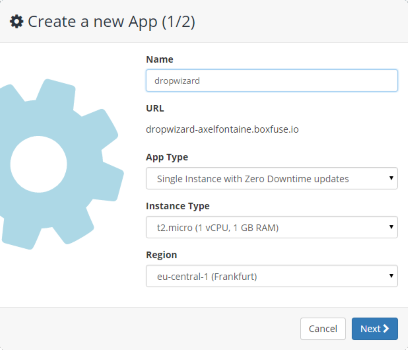
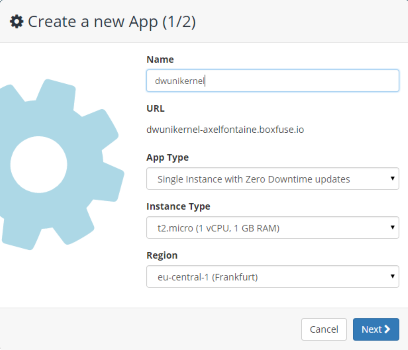
Updated blog post with more details

diff --git a/_posts/2015-04-25-dropwizard-aws.html b/_posts/2015-04-25-dropwizard-aws.html
@@ -40,26 +40,103 @@ permalink: /blog/dropwizard-aws.html
 
     <p>This tutorial works with Windows, Mac OSX and Linux and should take about 10 minutes to complete.</p>
 
+    <h2 class="blog-post-section">Step 0: Create a Dropwizard app</h2>
+
+    <p>Let's begin by creating a small Dropwizard application based on the latest Dropwizard Maven archetype:</p>
+
+    <pre class="console">&gt; mvn archetype:generate -DgroupId=dwunikernel -DartifactId=dwunikernel -Dversion=1.0 -Dname=DwUnikernel -Dpackage=dwunikernel -DarchetypeGroupId=io.dropwizard.archetypes -DarchetypeArtifactId=java-simple -DinteractiveMode=false</pre>
+
+    <p>This generated the basic skeleton for Dropwizard:</p>
+
+    <div class="blog-post-image">
+        <img src="/assets/posts/archetype.png" alt="Dropwizard Archetype Basic Skeleton">
+    </div>
+
+    <p>Now let's add a resource and a healthcheck.</p>
+
+    <p>For the resource create a class named <code>dwunikernel.resources.HelloWorldResource</code> with the following code:</p>
+
+    <pre class="prettyprint">package dwunikernel.resources;
+
+import com.google.common.base.Optional;
+import javax.ws.rs.GET;
+import javax.ws.rs.Path;
+import javax.ws.rs.Produces;
+import javax.ws.rs.QueryParam;
+import javax.ws.rs.core.MediaType;
+import java.util.HashMap;
+import java.util.Map;
+
+@Path("/")
+@Produces(MediaType.APPLICATION_JSON)
+public class HelloWorldResource {
+    private final String template;
+
+    public HelloWorldResource(String template) {
+        this.template = template;
+    }
+
+    @GET
+    public Map&lt;String, Object&gt; sayHello(@QueryParam("name") Optional&lt;String&gt; name) {
+        Map&lt;String, Object&gt; result = new HashMap&lt;&gt;();
+        result.put("hello", String.format(template, name.or("stranger")));
+        return result;
+    }
+}</pre>
+
+    <p>For the healthcheck, create a class named <code>dwunikernel.health.HealthCheck</code>:</p>
+
+    <pre class="prettyprint">package dwunikernel.health;
+
+import com.codahale.metrics.health.HealthCheck;
+
+public class TemplateHealthCheck extends HealthCheck {
+    private final String template;
+
+    public TemplateHealthCheck(String template) {
+        this.template = template;
+    }
+
+    @Override
+    protected Result check() throws Exception {
+        final String greeting = String.format(template, "TEST");
+        if (!greeting.contains("TEST")) {
+            return Result.unhealthy("template doesn't include a name");
+        }
+        return Result.healthy();
+    }
+}</pre>
+
+    <p>Finally register both the resource and the healthcheck in the <code>dwunikernel.DwUnikernelApplication.run()</code> method:</p>
+
+    <pre class="prettyprint">@Override
+public void run(final DwUnikernelConfiguration configuration, final Environment environment) {
+    String template = "Hello, %s!";
+    environment.jersey().register(new HelloWorldResource(template));
+    environment.healthChecks().register("template", new TemplateHealthCheck(template));
+}</pre>
+
+    <p>And that's it. We now have a basic Dropwizard application we can use!</p>
+
     <h2 class="blog-post-section">Step 1: Fuse the Dropwizard app into a secure unikernel image</h2>
 
-    <p>Start by creating a new application called <code>dropwizard</code> in the
-        <a href="https://console.boxfuse.com">Boxfuse Console</a>. Select <em>Single Instance with Zero Downtime updates</em> (elastic IP) in the AWS eu-central-1 region:</p>
+    <p>Log in to the <a href="https://console.boxfuse.com">Boxfuse Console</a> and create a new application called
+        <code>dwunikernel</code>. Select the defaults of <em>Single Instance with Zero Downtime updates</em> (elastic IP) and the AWS eu-central-1 region:</p>
 
     <div class="blog-post-image">
         <img src="/assets/posts/new-app.png" alt="New application">
     </div>
 
-    <p>Now <strong><a href="https://github.com/boxfuse/blog-dropwizard-aws/archive/1.0.zip">download the sample app</a></strong> and extract it in a new directory on your machine. Open a terminal
-        and build it using Maven:</p>
+    <p>Now build our Dropwizard app using Maven:</p>
 
     <pre class="console">&gt; mvn package</pre>
 
     <p>With that done you can now turn into it a secure unikernel using the Boxfuse Client:</p>
 
-    <pre class="console">&gt; boxfuse fuse target/dropwizard-1.0.jar
+    <pre class="console">&gt; boxfuse fuse target/dwunikernel-1.0.jar
 
-Fusing Image for dropwizard-1.0.jar ...
-Image fused in 00:07.073s (54017 K) -> axelfontaine/dropwizard:1.0</pre>
+Fusing Image for dwunikernel-1.0.jar ...
+Image fused in 00:07.073s (54017 K) -> axelfontaine/dwunikernel:1.0</pre>
 
     <p>In just over 7 seconds, Boxfuse <strong>analysed the application</strong>, determined it was a Dropwizard application running on the JVM
         and automatically <strong>created the smallest possible image</strong> to run it. It also automatically set
@@ -71,79 +148,110 @@ Image fused in 00:07.073s (54017 K) -> axelfontaine/dropwizard:1.0</pre>
     <pre class="console" style="font-size: 10px">&gt; boxfuse ls
 
 Images available locally:
-+-----------------------------+--------------------+-------+---------+------------+--------------------------------+---------+---------------------+
-| Image                       |      Payload       | Debug |  Java   | AppServer  |             Ports              |  Size   |    Generated at     |
-+-----------------------------+--------------------+-------+---------+------------+--------------------------------+---------+---------------------+
-| axelfontaine/dropwizard:1.0 | dropwizard-1.0.jar | false | 8.45.14 | Dropwizard | admin-http -> 8081, http -> 80 | 54017 K | 2015-04-25 23:32:54 |
-+-----------------------------+--------------------+-------+---------+------------+--------------------------------+---------+---------------------+
++------------------------------+---------------------+-------+---------+------------+--------------------------------+---------+---------------------+
+| Image                        |       Payload       | Debug |  Java   | AppServer  |             Ports              |  Size   |    Generated at     |
++------------------------------+---------------------+-------+---------+------------+--------------------------------+---------+---------------------+
+| axelfontaine/dwunikernel:1.0 | dwunikernel-1.0.jar | false | 8.45.14 | Dropwizard | admin-http -> 8081, http -> 80 | 54017 K | 2015-04-25 23:32:54 |
++------------------------------+---------------------+-------+---------+------------+--------------------------------+---------+---------------------+
 Total: 1</pre>
-    <p>Congratulations! You now a have a brand new 54 MB secure unikernel image!</p>
+    <p>Congratulations! You now a have a <strong>brand new 54 MB secure unikernel image</strong> including only our application, Java 8 and the Linux kernel!</p>
+
+    <p>For reference, if you would have create a minimal Ubuntu Server 15.04 VM with nothing, except SSH,
+        openjdk-8-jre-headless and our application, this is how large the image would have been:</p>
+
+    <div class="blog-post-image">
+        <img src="/assets/posts/ubuntu.png" alt="Ubuntu vs Boxfuse">
+    </div>
+
+    <p><strong>The Boxfuse unikernel image is just 4% of the equivalent Ubuntu one.</strong>
+        And that's just the size. When you factor
+        in creation time, security attack surface and reproducibility we are in two different leagues.</p>
 
     <h2 class="blog-post-section">Step 2: Test it locally on VirtualBox</h2>
 
     <p>Now let's launch it on VirtualBox:</p>
-    <pre class="console">&gt; boxfuse run dropwizard:1.0
 
-Launching Instance of axelfontaine/dropwizard:1.0 on VirtualBox ...
+    <pre class="console">&gt; boxfuse run dwunikernel:1.0
+
+Launching Instance of axelfontaine/dwunikernel:1.0 on VirtualBox ...
 Forwarding admin-http port localhost:50001 -> vb-033da2a4:8081
 Forwarding http port localhost:8888 -> vb-033da2a4:80
 Instance launched in 00:04.176s -> vb-033da2a4
 Waiting for Payload to start on Instance vb-033da2a4 ...
 Payload started in 00:08.525s -> http://127.0.0.1:8888</pre>
 
-    <p>Now let's open a browser to the <code>/hello-world</code> resource and check everything is up:</p>
+    <p>Now let's check everything is up:</p>
 
-    <div class="blog-post-image">
-        <img src="/assets/img/virtualbox.png" alt="VirtualBox" style="margin-right: 20px">
-        <img src="/assets/posts/screenshot.png" alt="Screenshot">
+<div class="row">
+    <div class="col-md-9">
+    <pre class="console">&gt; curl http://localhost:8888?name=Boxfuse
+{"hello":"Hello, Boxfuse!"}</pre>
+
+    <pre class="console">&gt; curl http://localhost:50001/healthcheck
+{"deadlocks":{"healthy":true},"template":{"healthy":true}}</pre>
     </div>
+    <div class="col-md-3">
+        <div class="blog-post-image">
+            <img src="/assets/img/virtualbox.png" alt="VirtualBox">
+        </div>
+    </div>
+</div>
 
     <p>And indeed it shows up in our list of instances as well:</p>
 
     <pre class="console">&gt; boxfuse ps
 
 Running Instances on VirtualBox :
-+-------------+-----------------------------+---------------------+-----------------------+---------------------+
-|  Instance   |            Image            |        Type         |          URL          |     Launched at     |
-+-------------+-----------------------------+---------------------+-----------------------+---------------------+
-| vb-033da2a4 | axelfontaine/dropwizard:1.0 | 4 CPU / 1024 MB RAM | http://127.0.0.1:8888 | 2015-04-25 23:42:20 |
-+-------------+-----------------------------+---------------------+-----------------------+---------------------+
++-------------+------------------------------+---------------------+-----------------------+---------------------+
+|  Instance   |             Image            |        Type         |          URL          |     Launched at     |
++-------------+------------------------------+---------------------+-----------------------+---------------------+
+| vb-033da2a4 | axelfontaine/dwunikernel:1.0 | 4 CPU / 1024 MB RAM | http://127.0.0.1:8888 | 2015-04-25 23:42:20 |
++-------------+------------------------------+---------------------+-----------------------+---------------------+
 Total: 1</pre>
 
     <h2 class="blog-post-section">Step 3: Deploy it unchanged to AWS</h2>
 
     <p>Finally deploy the image unchanged to AWS:</p>
 
-    <pre class="console" style="font-size: 10px">&gt; boxfuse run dropwizard:1.0 -env=prod
+    <pre class="console" style="font-size: 11px">&gt; boxfuse run dwunikernel:1.0 -env=prod
 
-Pushing axelfontaine/dropwizard:1.0 ...
-Verifying axelfontaine/dropwizard:1.0 ...
+Pushing axelfontaine/dwunikernel:1.0 ...
+Verifying axelfontaine/dwunikernel:1.0 ...
 Creating Elastic IP ...
-Mapping dropwizard-axelfontaine.boxfuse.io to 52.28.23.63 ...
-Waiting for AWS to create an AMI for axelfontaine/dropwizard:1.0 in eu-central-1 (this may take up to 50 seconds) ...
+Mapping dwunikernel-axelfontaine.boxfuse.io to 52.28.23.63 ...
+Waiting for AWS to create an AMI for axelfontaine/dwunikernel:1.0 in eu-central-1 (this may take up to 50 seconds) ...
 AMI created in 00:31.067s -> ami-da744bc7
-Creating security group boxfuse-sg_axelfontaine/dropwizard:1.0 ...
-Launching t2.micro instance of axelfontaine/dropwizard:1.0 (ami-da744bc7) in eu-central-1 ...
+Creating security group boxfuse-sg_axelfontaine/dwunikernel:1.0 ...
+Launching t2.micro instance of axelfontaine/dwunikernel:1.0 (ami-da744bc7) in eu-central-1 ...
 Instance launched in 00:28.320s -> i-53be0c92
 Waiting for Payload to start on Instance i-53be0c92 at http://52.28.14.76:8081/healthcheck ...
 Remapping Elastic IP 52.28.23.63 to i-53be0c92 ...
 Waiting 15s for AWS to complete Elastic IP Zero Downtime transition ...
-Deployment completed successfully. axelfontaine/dropwizard:1.0 is up and running at http://dropwizard-axelfontaine.boxfuse.io:8081</pre>
+Deployment completed successfully. axelfontaine/dwunikernel:1.0 is up and running at http://dwunikernel-axelfontaine.boxfuse.io:8081</pre>
 
     <p>Boxfuse automatically created a <strong>new Elastic IP address</strong> and a <strong>new domain</strong>.
-        It pushed the image to the secure Boxfuse vault, registered an AMI and launched an instance.
+        It pushed the image to the secure Boxfuse vault, registered an AMI, created a security group and launched an instance.
     Then finally it mapped the Elastic IP onto the instance.</p>
 
     <p>Let's check if the instance came up:</p>
+    <div class="row">
+        <div class="col-md-9">
+    <pre class="console">&gt; curl http://dwunikernel-axelfontaine.boxfuse.io?name=BoxfuseAndAWS
+{"hello":"Hello, BoxfuseAndAWS!"}</pre>
 
-    <div class="blog-post-image">
-        <img src="/assets/img/aws.png" alt="AWS" style="margin-right: 20px; width: 200px">
-        <img src="/assets/posts/screenshot-aws.png" alt="Screenshot AWS" style="width: 600px">
+    <pre class="console">&gt; curl http://dwunikernel-axelfontaine.boxfuse.io:8081/healthcheck
+{"deadlocks":{"healthy":true},"template":{"healthy":true}}</pre>
+        </div>
+        <div class="col-md-3">
+            <div class="blog-post-image">
+                <img src="/assets/img/aws.png" alt="AWS" style="max-width: 100%">
+            </div>
+        </div>
     </div>
 
-    <p>And it did!</p>
+    <p>And it did. Our Dropwizard unikernel is successfully up and running on AWS.</p>
 
-    <h2 class="blog-post-section">Done !</h2>
+    <h2 class="blog-post-section">Done.</h2>
 
     <p>Congratulations! <strong>In just a few minutes and 3 easy steps you created a brand new unikernel image of the example Dropwizard application.</strong>
     This image is minimal, secure and portable. You ran it unchanged on both VirtualBox and AWS.</p>
@@ -152,5 +260,5 @@ Deployment completed successfully. axelfontaine/dropwizard:1.0 is up and running
 
     <p>Now go ahead, dive deeper and read the <a href="/docs">documentation</a>.</p>
 
-    <p>Stay tuned for more by subscribing to this blog by email on the right of this page.</p>
+    <p><strong>Stay tuned for part 2, where we will integrate Boxfuse directly into the Maven build.</strong></p>
 </div>
